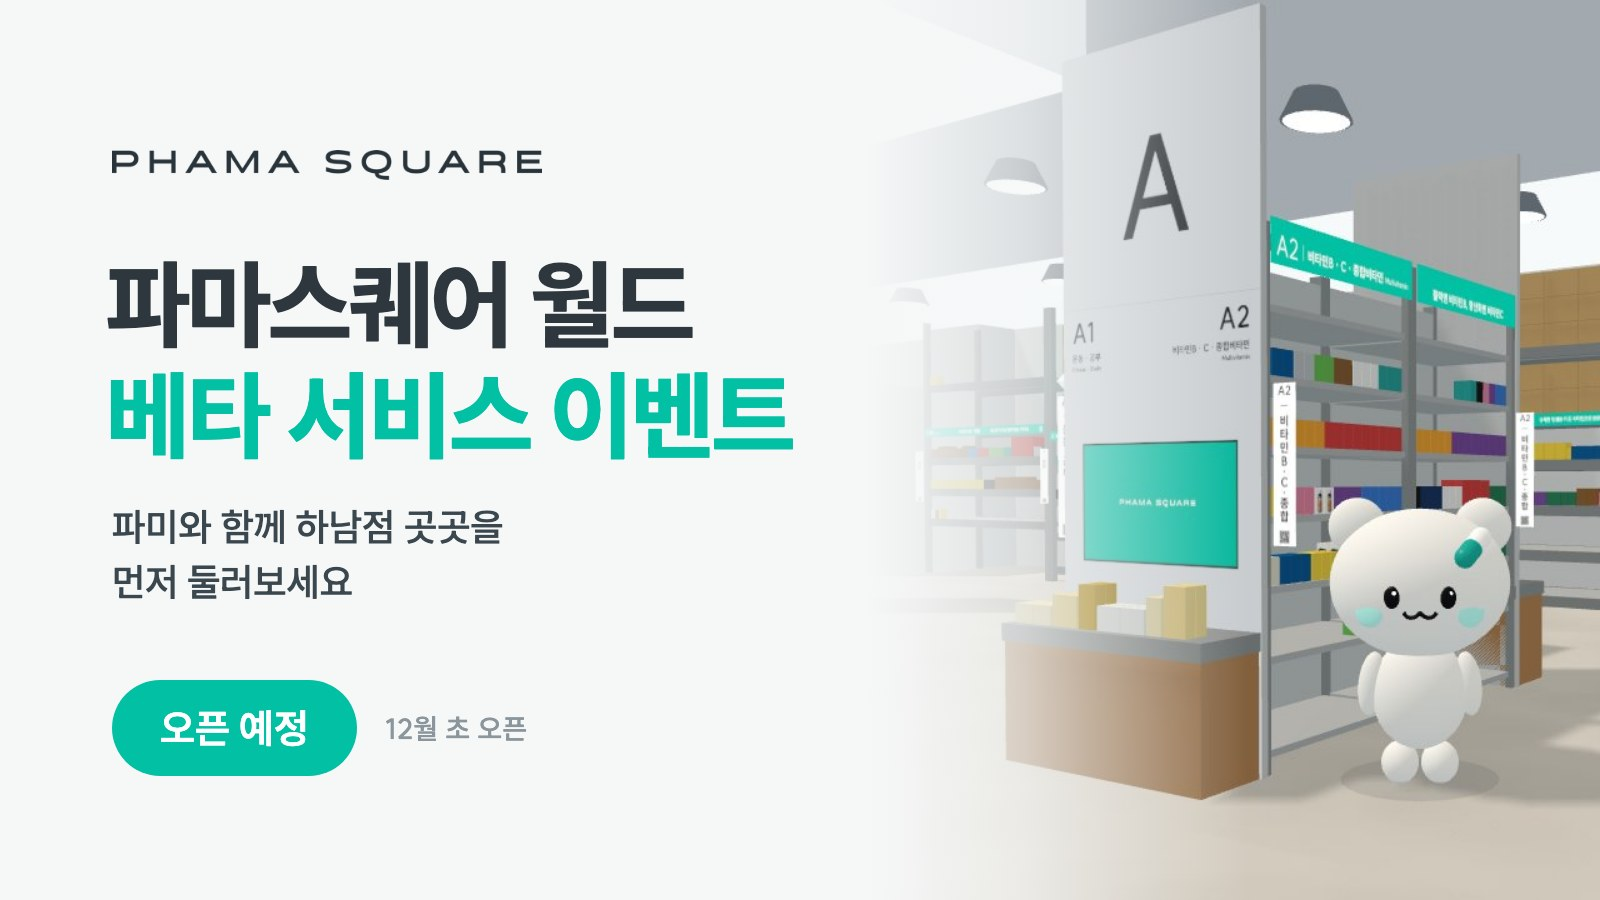
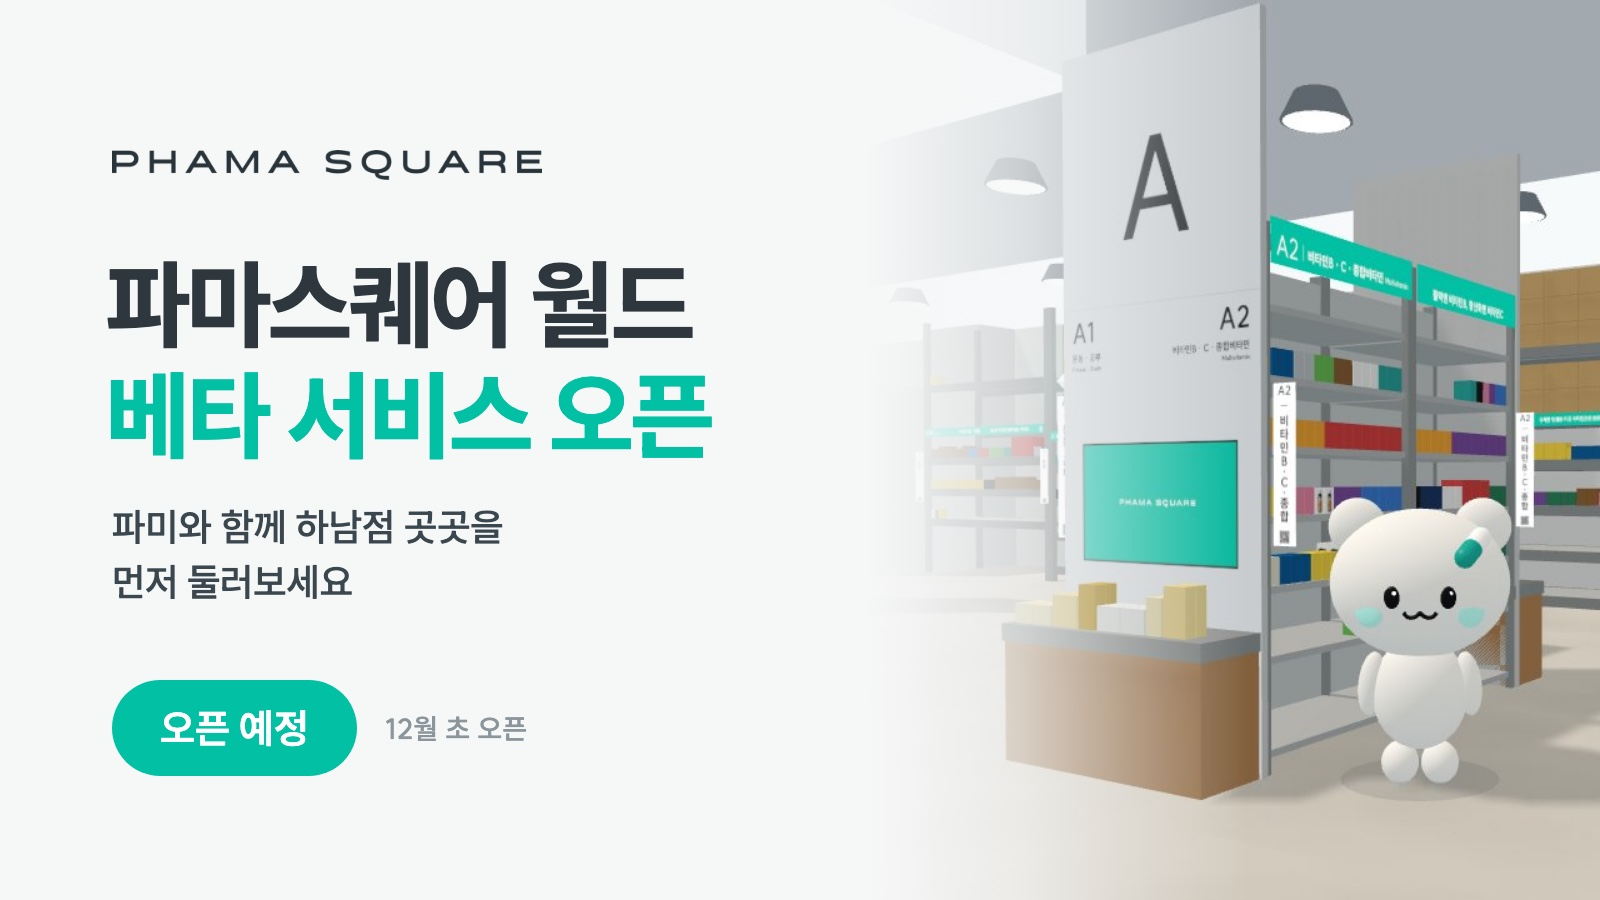
월드 화면 폭 가득(75" 판 포함), 월드 배너 「베타 서비스 오픈」, 홈 배너 안 꺾쇠 삭제, 배너 · 상세 스와이프 한 번에 넘김, 사이트 틀 카메라 허용

Changed region(s): [[0.3438, 0.4044, 0.5, 0.5289]]

diff --git a/src/PromoBanner.jsx b/src/PromoBanner.jsx
@@ -80,7 +80,7 @@ export default function PromoBanner({ onPress, interval = 5000, bleed = 0 }) {
   }, [n]);
   const down = (e) => { if (n < 2) return; drag.current = { x: e.clientX, id: e.pointerId }; swiped.current = false; };
   const move = (e) => { if (!drag.current) return; const d = e.clientX - drag.current.x; if (Math.abs(d) > 6) swiped.current = true; setDx(d); };
-  const up = () => { if (!drag.current) return; if (dx < -40) go(1); else if (dx > 40) go(-1); drag.current = null; setDx(0); };
+  const up = (e) => { if (!drag.current) return; const d = e && e.type !== "pointercancel" && e.clientX != null ? e.clientX - drag.current.x : dx; if (d < -40) go(1); else if (d > 40) go(-1); drag.current = null; setDx(0); };
 
   useEffect(() => {
     if (n < 2) return;
@@ -160,16 +160,7 @@ export default function PromoBanner({ onPress, interval = 5000, bleed = 0 }) {
         </div>
       ))}
 
-      {/* 좌우 넘김 — 꺾쇠만(배경 · 테 없음). 눌리는 칸은 넉넉하게, 그림 위에서도 읽히게 옅은 그림자(2026-11-22 사용자) */}
-      {n > 1 && [[-1, "이전 혜택 보기", "M14.5 5 7.5 12l7 7", { left: 0 }], [1, "다음 혜택 보기", "M9.5 5l7 7-7 7", { right: 0 }]].map(([d, label, path, side]) => (
-        <button key={d} type="button" aria-label={label}
-          onPointerDown={(e) => e.stopPropagation()} onClick={(e) => { e.stopPropagation(); go(d); }}
-          style={{ position: "absolute", top: 0, bottom: 0, width: 44, padding: 0, border: 0, background: "none", cursor: "pointer", zIndex: 10,
-            display: "flex", alignItems: "center", justifyContent: "center", color: "#FFFFFF", WebkitTapHighlightColor: "transparent", ...side }}>
-          <svg width="22" height="22" viewBox="0 0 24 24" fill="none" stroke="currentColor" strokeWidth="2.2" strokeLinecap="round" strokeLinejoin="round" aria-hidden="true"
-            style={{ filter: "drop-shadow(0 1px 3px rgba(0,0,0,.45))" }}><path d={path} /></svg>
-        </button>
-      ))}
+      {/* 배너 안 좌우 꺾쇠는 뺐다(2026-11-22 사용자 「보기 싫다 빼자」) — 넘김은 손 밀기 · 아래 점 · 자동 넘김 */}
 
       {n > 1 && (
         <div style={{ position: "absolute", bottom: 12, left: "50%", transform: "translateX(-50%)", display: "flex", gap: 6, zIndex: 10 }}>
@@ -204,7 +195,8 @@ export function PromoSlides({ promo }) {
   const go = (d) => setI((x) => Math.min(n - 1, Math.max(0, x + d)));
   const down = (e) => { drag.current = { x: e.clientX }; };
   const move = (e) => { if (drag.current) setDx(e.clientX - drag.current.x); };
-  const up = () => { if (!drag.current) return; if (dx < -40) go(1); else if (dx > 40) go(-1); drag.current = null; setDx(0); };
+  /* 넘김 판정은 손을 뗀 자리로 직접 잰다 — 화면 상태(dx)는 빠르게 밀면 아직 안 바뀌어 한 번에 안 넘어갔다(2026-11-22 사용자 「두 번 터치해야 넘어가짐」) */
+  const up = (e) => { if (!drag.current) return; const d = e && e.type !== "pointercancel" && e.clientX != null ? e.clientX - drag.current.x : dx; if (d < -40) go(1); else if (d > 40) go(-1); drag.current = null; setDx(0); };
   if (!n) return null;
   const btn = { width: 36, height: 36, borderRadius: 999, border: "1px solid #E2E5E8", background: "#FFFFFF", display: "grid", placeItems: "center", cursor: "pointer" };
   const arrow = (d) => <svg width="16" height="16" viewBox="0 0 16 16" fill="none" aria-hidden="true"><path d={d < 0 ? "M10 3.5 5.5 8 10 12.5" : "M6 3.5 10.5 8 6 12.5"} stroke="#2D373D" strokeWidth="1.6" strokeLinecap="round" strokeLinejoin="round" /></svg>;

diff --git a/src/App.jsx b/src/App.jsx
@@ -938,7 +938,7 @@ export default function KioskApp() {
         화면 폭에 맞춘 zoom 이 걸려 있어서 vh 를 쓰면 안 됩니다 — zoom 2.6 에서
         100vh 는 실제 화면의 2.6배가 되고, 그만큼 빈 자리가 아래로 늘어납니다.
         바탕색은 body 가 깔아 주므로 짧은 화면에서도 흰 자리가 생기지 않습니다. */}
-    <div style={{ maxWidth:SHELL_MAX, margin:"0 auto", background:C.bgF,
+    <div style={{ /* 파마스퀘어 월드(3D)는 넓은 화면에서도 폭을 다 쓴다(2026-11-22 사용자 「이런데도 풀로」) */ maxWidth:cur.page==="world" ? "100%" : SHELL_MAX, margin:"0 auto", background:C.bgF,
       fontFamily:"Pretendard,'Pretendard Variable',-apple-system,'Noto Sans KR','Noto Sans SC',sans-serif", color:C.t1,
       /* 건강 가이드 탭은 iframe 이 화면 높이를 다 쓰므로 아래 여백을 두지 않는다 — 두면 바깥 페이지가 15px 더 밀려 머리글이 흔들렸다(2026-11-20 DID 검수) */
       paddingBottom: cur.page === "guide" ? 0 : 64 }}>
@@ -951,7 +951,7 @@ export default function KioskApp() {
 
       {/* 바텀 내비 — 아이콘 없이 텍스트만, 활성 탭 민트 underline(배포본 꼴 그대로). 탭에 건강 가이드만 더함(2026-11-13) */}
       <div style={{ position:"fixed", bottom:0, left:"50%", transform:"translateX(-50%)",
-        width:"100%", maxWidth:SHELL_MAX, background:C.wh,
+        width:"100%", maxWidth:cur.page==="world" ? "100%" : SHELL_MAX, background:C.wh,
         borderTop:`1px solid ${C.bd}`, display:"flex", zIndex:100 }}>
         {/* 고른 탭 위의 민트 선 하나가 옆으로 미끄러져 옮겨 감(2026-11-13) */}
         {(() => { const idx = tabs.findIndex((x) => x.id === activeTab); return idx < 0 ? null : (

diff --git a/src/Shell75.jsx b/src/Shell75.jsx
@@ -34,7 +34,7 @@ export default function Shell75() {
     const on = (e) => {
       if (e.origin !== window.location.origin) return;
       const m = e.data; if (!m || !m.psShell) return;
-      if (m.page !== undefined) { setWide(m.page === "map"); setPage(m.page); }
+      if (m.page !== undefined) { setWide(m.page === "map" || m.page === "world"); setPage(m.page); }
       if (m.kbd === "open") setKb(true);
       if (m.kbd === "close") setKb(false);
     };

diff --git a/src/SiteFrame.jsx b/src/SiteFrame.jsx
@@ -18,7 +18,7 @@ export default function SiteFrame({ src, title }) {
   }, []);
   return (
     <div style={{ height: h, background: BRAND.bg }}>
-      <iframe src={src} title={title} style={{ width: "100%", height: "100%", border: 0, display: "block" }} />
+      <iframe src={src} title={title} allow="camera; fullscreen; clipboard-write" style={{ width: "100%", height: "100%", border: 0, display: "block" }} />
     </div>
   );
 }
